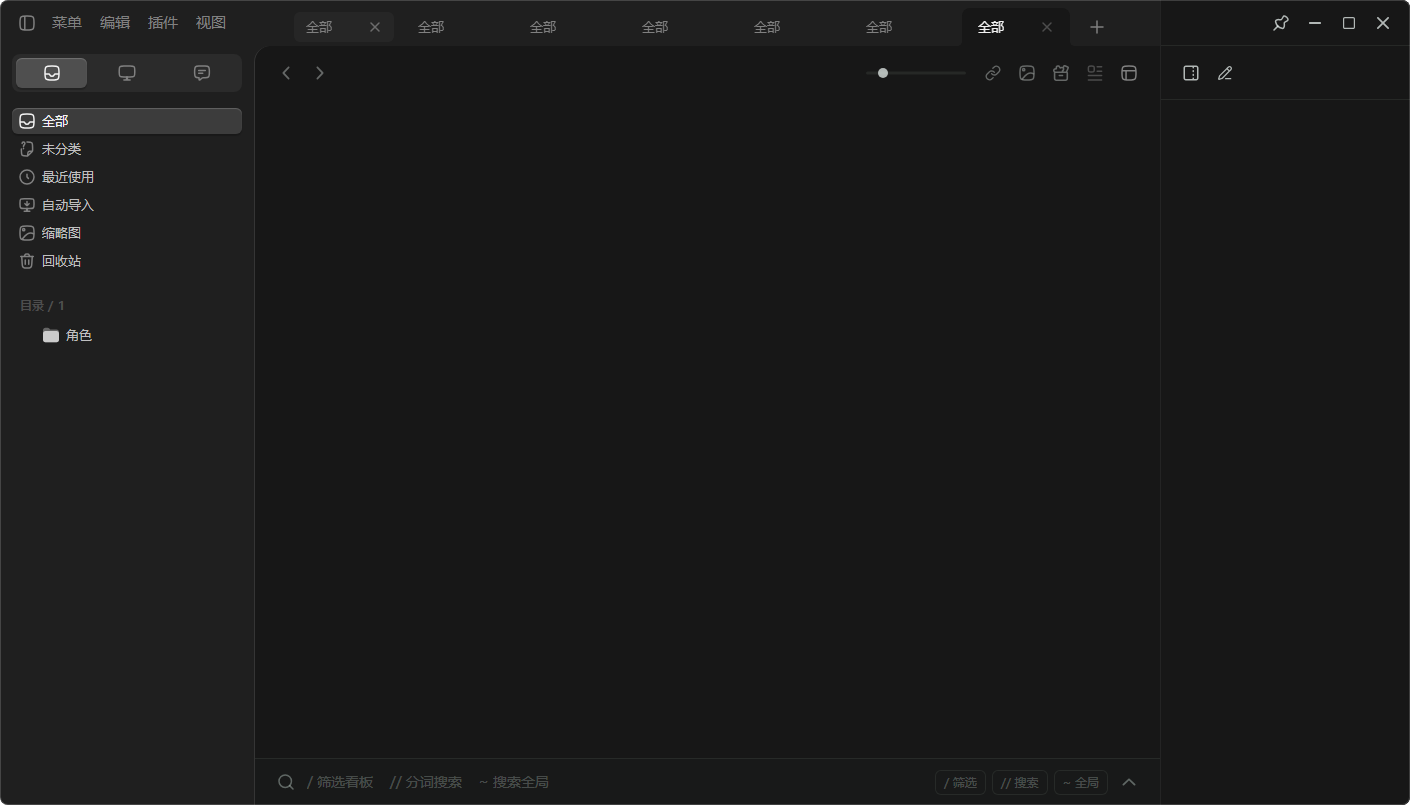
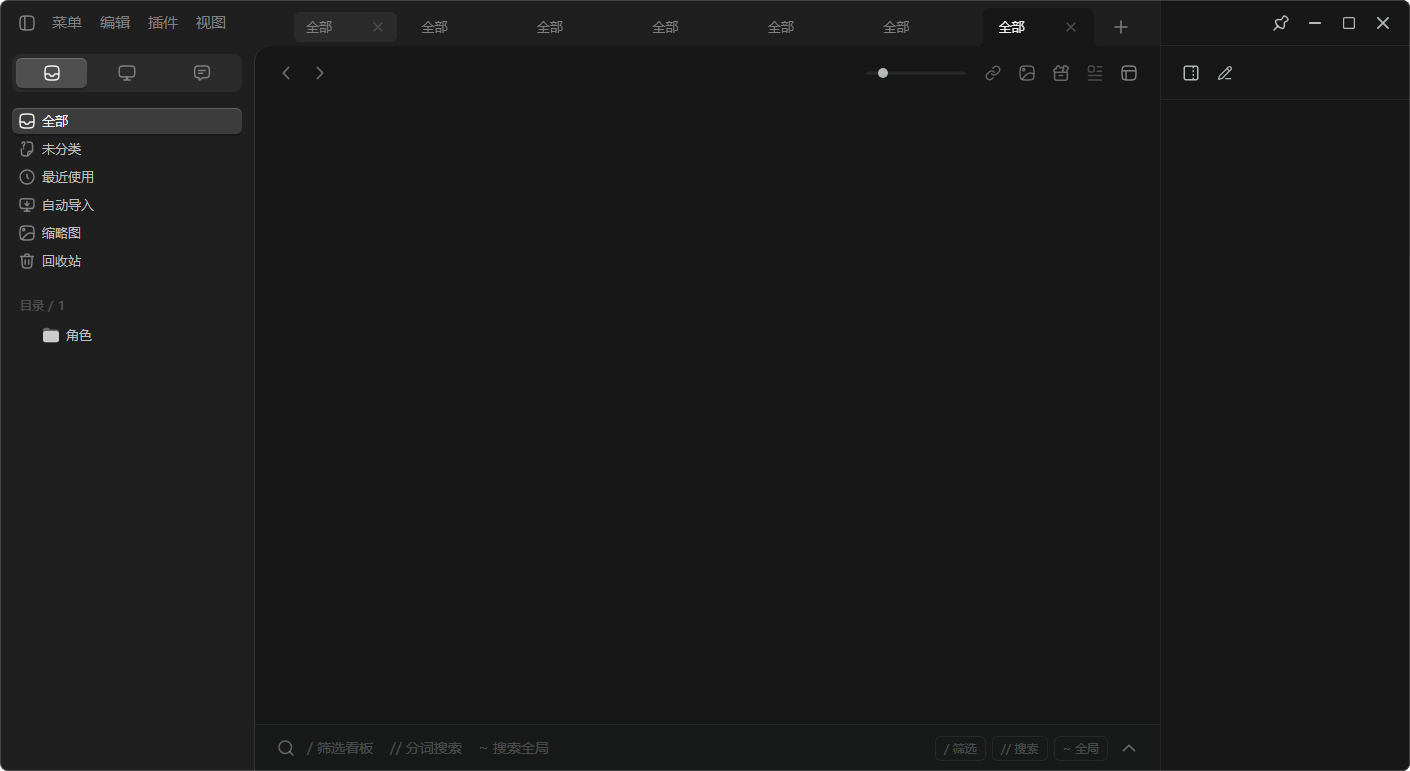
阶段七 7.1 十九轮六轮：+ 钮右端空白再修（双根因）——栏级 gap 对零宽容器生效（48 非稿值 24）改挂具体元素 margin / sidebarAnimating rAF 暂停卡 true 致 pad-win 恒 160，useSidebarAnim 两引擎加 watchdog 兜底（踩坑 062）；探针双跑全 16 项 PASS

diff --git a/src/lib/useSidebarAnim.ts b/src/lib/useSidebarAnim.ts
@@ -61,6 +61,7 @@ export const sidebarShowWidths = reactive({ left: 0, right: 0, archive: 0 });
 // 多档案标签页共享宽度可接受）——
 let archiveAnim: { el: HTMLElement; from: number; to: number; start: number } | null = null;
 let archiveRaf = 0;
+let archiveWatchdog: ReturnType<typeof setTimeout> | undefined;
 
 function archiveAnimFrame(now: number): void {
   const a = archiveAnim;
@@ -74,6 +75,7 @@ function archiveAnimFrame(now: number): void {
   } else {
     archiveAnim = null;
     useUiStore().sidebarAnimating = false;
+    clearTimeout(archiveWatchdog);
   }
 }
 
@@ -89,6 +91,16 @@ export function animateArchivePanel(el: HTMLElement, to: number): void {
   useUiStore().sidebarAnimating = true;
   cancelAnimationFrame(archiveRaf);
   archiveRaf = requestAnimationFrame(archiveAnimFrame);
+  // watchdog 同左右栏引擎（rAF 暂停时布尔恒卡 true 的兜底，2026-08-30）
+  clearTimeout(archiveWatchdog);
+  archiveWatchdog = setTimeout(() => {
+    if (!archiveAnim) return;
+    cancelAnimationFrame(archiveRaf);
+    sidebarShowWidths.archive = archiveAnim.to;
+    archiveAnim.el.style.width = `${archiveAnim.to}px`;
+    archiveAnim = null;
+    useUiStore().sidebarAnimating = false;
+  }, SIDEBAR_ANIM_MS + 200);
 }
 
 type SideKey = keyof typeof sidebarShowWidths;
@@ -109,6 +121,7 @@ export function useSidebarAnim(opts: {
   const tabs = useTabsStore();
   let sideAnims: SideAnim[] = [];
   let sideAnimRaf = 0;
+  let sideAnimWatchdog: ReturnType<typeof setTimeout> | undefined;
   let dockResizeObs: ResizeObserver | undefined;
 
   // 初始显示宽度（模板首帧即正确，不经过 0/全宽跳变）
@@ -130,6 +143,7 @@ export function useSidebarAnim(opts: {
     } else {
       sideAnims = [];
       ui.sidebarAnimating = false;
+      clearTimeout(sideAnimWatchdog);
     }
   }
 
@@ -147,6 +161,19 @@ export function useSidebarAnim(opts: {
     ui.sidebarAnimating = true;
     cancelAnimationFrame(sideAnimRaf);
     sideAnimRaf = requestAnimationFrame(sidebarAnimFrame);
+    // watchdog（2026-08-30：rAF 在窗口遮挡 / headless 节流下可暂停，布尔会恒卡 true——
+    // pad-win 让位不解除、标签栏右端恒 160 空白的实机 BUG 根因）：超时强制收官写终值
+    clearTimeout(sideAnimWatchdog);
+    sideAnimWatchdog = setTimeout(() => {
+      if (!sideAnims.length) return;
+      cancelAnimationFrame(sideAnimRaf);
+      for (const a of sideAnims) {
+        sidebarShowWidths[a.key] = a.to;
+        a.el.style.width = `${a.to}px`;
+      }
+      sideAnims = [];
+      ui.sidebarAnimating = false;
+    }, SIDEBAR_ANIM_MS + 200);
   }
 
   onMounted(() => {
@@ -176,6 +203,7 @@ export function useSidebarAnim(opts: {
   });
   onBeforeUnmount(() => {
     cancelAnimationFrame(sideAnimRaf);
+    clearTimeout(sideAnimWatchdog);
     dockResizeObs?.disconnect();
   });
 }

diff --git a/src/styles/dockview-theme.css b/src/styles/dockview-theme.css
@@ -32,11 +32,13 @@
   --dv-drag-over-border-color: var(--brand-border);
 }
 
-/* 标签栏条（稿值）：46 高 / padding 8·24·0·36 / 行 gap 12（标签页组 与 + 钮 的间距）；
-   栏底透明透窗口底（7.1 十七轮定），内容容器 g1 卡片顶边即分界 */
+/* 标签栏条（稿值）：46 高 / padding 8·24·0·36 / 底透明透窗口底（十七轮定），
+   内容容器 g1 卡片顶边即分界。
+   不用栏级 gap：void / right-actions 零宽时 gap 仍生效——+ 钮右端会凭空多 24
+   （双 gap 12，2026-08-30 实机「右端空白 48 > 稿值 24」根因）；间距改挂具体元素
+   （pre-actions 有钮时 margin-right 12、left-actions margin-left 12），有内容才占距 */
 .anikit-dock-theme .dv-tabs-and-actions-container {
   padding: var(--n-space-8) var(--n-space-24) 0 var(--n-space-36);
-  gap: var(--n-space-12);
   box-sizing: border-box;
 }
 
@@ -92,13 +94,16 @@
 }
 
 /* 标签页行首（prefix actions，左栏收起时的"展开侧边栏"按钮）：垂直居中；
-   与标签页的间距由栏行 gap 12 承担，无按钮时 display:none 不占位（gap 不给空盒留距） */
+   无按钮时 display:none 不占位；有钮时与首标签间距 12（margin——栏级 gap 已废，见栏容器注释） */
 .anikit-dock-theme .dv-pre-actions-container {
   display: flex;
   align-items: center;
 }
 .anikit-dock-theme .dv-pre-actions-container:not(:has(.icon-btn)) {
   display: none;
+}
+.anikit-dock-theme .dv-pre-actions-container:has(.icon-btn) {
+  margin-right: var(--n-space-12);
 }
 .anikit-dock-theme .dv-pre-actions-container .dv-vue-part,
 .anikit-dock-theme .dv-left-actions-container .dv-vue-part {
@@ -108,11 +113,13 @@
 }
 
 /* 左侧 actions（+ 按钮，tabs 后 = 挨着最后一个标签页；DOM 顺序 tabs → left-actions → void →
-   right-actions，天然位）：与标签组间距 = 栏行 gap 12（稿口径，不再自绘分割线）；
+   right-actions，天然位）：与标签组间距 12（margin-left——栏级 gap 已废，稿口径不变；
+   flex 间距按 scrollable 的 margin 盒缘起算，视觉恒 12）；
    钮 = IconButton 大档 30×30（稿值），色 亮/三级、hover 亮/二级 + 半透明-3 罩（贴预览展区口径） */
 .anikit-dock-theme .dv-left-actions-container {
   display: flex;
   align-items: center;
+  margin-left: var(--n-space-12);
   margin-right: auto; /* 钉在标签页后——后续元素（void/右端 actions/浮块）一律顶到最右 */
 }
 .anikit-dock-theme .dv-left-actions-container .icon-btn {

diff --git a/tools/cdp-tab-bar-probe.py b/tools/cdp-tab-bar-probe.py
@@ -165,8 +165,14 @@ async def main():
                   isinstance(bar, dict) and bar.get("h") == "46px"
                   and bar.get("p") == "8px,24px,0px,36px" and bar.get("bg") == "rgba(0, 0, 0, 0)",
                   json.dumps(bar))
-            check("T2 栏行 gap 12", isinstance(bar, dict) and bar.get("gap") == "12px",
-                  json.dumps(bar) if not isinstance(bar, dict) else bar.get("gap", ""))
+            sp = await ev(
+                "(() => { const bar = document.querySelector('" + BAR + "');"
+                " const la = bar.querySelector('.dv-left-actions-container');"
+                " return { gap: getComputedStyle(bar).columnGap,"
+                "        ml: getComputedStyle(la).marginLeft }; })()")
+            check("T2 栏无级 gap（零宽容器不吃距）+ + 钮 margin-left 12",
+                  isinstance(sp, dict) and sp.get("gap") in ("normal", "0px") and sp.get("ml") == "12px",
+                  json.dumps(sp))
 
             tabs_gap = await ev(
                 "getComputedStyle(document.querySelector('" + BAR + " .dv-tabs-container')).columnGap")
@@ -324,10 +330,10 @@ async def main():
                 " return { dropdown: !!dd, addRight: Math.round(ar.right),"
                 "        barRight: Math.round(br.right), raW: Math.round(rr.width),"
                 "        padR: parseInt(getComputedStyle(bar).paddingRight) }; })()")
-            check("T14 7 标签 shrink：无溢出下拉 + + 钮右缘距栏内容右缘 24",
+            check("T14 7 标签 shrink：无溢出下拉 + + 钮右缘距栏右缘 24（零宽容器不占距）",
                   isinstance(ov, dict) and ov.get("dropdown") is False
                   and ov.get("raW") == 0
-                  and abs(ov.get("barRight", 0) - ov.get("padR", 0) - ov.get("addRight", 0) - 24) <= 2,
+                  and abs(ov.get("barRight", 0) - ov.get("addRight", 0) - 24) <= 2,
                   json.dumps(ov))
 
             # T10 左栏收起时标签栏左 padding 36 → 12（十九轮二轮用户定）：

diff --git a/docs/05_项目进度/00_当前状态.md b/docs/05_项目进度/00_当前状态.md
@@ -1,6 +1,6 @@
 > 任务完成即更新本文件。开发中发现的遗漏细节记入 [[09_待办细节清单]]，按迭代消化，不在代码里就地糊（见 01_开发规范 第 4 条）。
 
-- **阶段七 7.1 十九轮 · 中间面板-标签栏轮——TabItem 接线 dockview + 栏排布贴稿（2026-08-30，feat/new-ui，标签宽度一问用户定案）**：**定案**：标签页宽 = **固定 180 + 过多平分收缩**（figma 实例 248/247 = 偶然宽，09 待办二轮条目 ④ 闭环）。**落地**：`TabLabel.vue` 重写为 **items/TabItem 的 dockview 业务适配器**（标题 viewKey 派生 / selected = panelApi 事件 / locked / 右键 tabMenus；点击激活归外壳不接 click）；`TabItem` 加 `locked` 态（pin 18 替代关闭钮 + tip，稿未画沿用 1.2 现口径）；`dockview-theme.css` 标签栏段重写——栏 46 / padding 8·24·0·36 / 行 gap 12、标签列表 gap 4、外壳 .dv-tab 180×38 全透明无 padding 边框（视觉全归 TabItem 自绘：选中 g1 + 圆角 8 8 0 0 + 两侧 4px 反弧、未选中透明三级字、hover 4px 内缩 6px 圆角 a3 罩）、四档底色变量全 transparent、去旧 218 宽/竖分割线/C4 选中底、+ 钮亮/三级 hover 二级+a3 罩、pre-actions 空时 display:none。**坑**：截图目验发现 4px 灰带横贯标签组底部截断选中无缝——先误判 tab-group-underline，elementFromPoint 定位 = dockview 自绘 `.dv-scrollbar`（flex trailing gap 计入 scrollWidth 恒假溢出 4px，058 横向同款），恒 display:none（踩坑 059）+ tab-group-underline 防御关闭。**探针**：新立 `cdp-tab-bar-probe.py` T1-T9 全 PASS + r19 截图目验贴稿；window-shell W2 修正过期断言（mica 描边交 DWM border 0）ALL PASS；sidebar-left ALL PASS；bugfix / sequence-pack tab 选择器迁新结构（.dv-tab .tab / .tab.selected .label）。**过期探针定案（非本轮回归）**：bugfix 余断言 / sequence-pack（桩缺 list_relations → DetailPanel null 崩）/ sidebar-anim（十八轮二轮 400ms 引擎后未复跑）= 阶段七未适配旧探针，记 09 待办随对应面板轮适配。vue-tsc 零错误；预览页 TabItem 展区补锁定态。速查表 §21 新立。**同日二轮实机三条修订（用户反馈）**：① **标签栏底废除透主窗口云母**——根源 = `.dock-host` 旧 c1 实底挡住（十七轮只清了 dockview 层、宿主层漏清），删底后标签栏/group 区透窗口云母或实色-1；② **左栏收起时栏左 padding 36→12**（用户定，收起态行首展开钮距左缘 36 太远；DockHost 挂 `left-collapsed` 切换）；③ **内容区底色 = 通用/一级**——`.content-area` 旧 c1 删掉（盖住十七轮 g1 卡片），统一透 `.dv-content-container` g1，选中标签与内容区融合可辨（全屏预览蒙层 c1 保留特例）。探针补 T10/T10b（收起 12/展开回 36）+ T11（底色链）全 12 项 PASS；window-shell 复跑 ALL PASS；vue-tsc 绿。**同日三轮再修（用户实机 BUG：单标签双肩全无 / 首尾标签缺外肩）**：根因 = `.dv-scrollable`（overflow hidden 包装层）与 `.dv-tabs-container` 裁至内容盒，反弧外肩伸出即被裁（中间标签落 gap 内故正常；computed 在 ≠ 可见）——两层各 `padding 0 4px + margin 0 -4px` 让出绘制空间（负 margin 抵消，tab 位置不变）；探针补 T12a/T12b 像素断言（截图读贴角 1px = 纯 g1）全 14 项 PASS；踩坑 060 新立。**同日四轮（用户实机两条）**：① pin 图标接线——pin-on / pin-off 转 currentColor（原 #BFBFBF 二级烘焙），window-pin-on/off 旧名引用清零（TabItem 锁定 pin / tabMenus / 置顶菜单项 / 窗口置顶钮 6 处全迁新名，命名对照六批 2 个）；② 展开侧边栏按钮出现/消失 = **透明度过渡 150ms 缓入缓出**（用户定；SidebarExpandButton 包 Transition，pre-actions `:has` 显隐与离场留存兼容）。探针复跑全 14 项 PASS。**同日五轮（用户实机「+ 钮右端空白过多」）**：根因 = dockview 7 标签溢出下拉（OverflowObserver 按 scrollW > clientW 判定——DPR 缩放下 flex shrink 亚像素累积恒假溢出，`.dv-tabs-overflow-dropdown-root` 渲染进 right-actions 占 ~60px；桩环境 DPR 1 不复现）——`:disable-tabs-overflow-list` 原生选项禁用（shrink 平分无下车场景）；探针补 T13（pad-win 生命周期：右栏收起 160 / 展开回 24，断言轮询化——固定 sleep 在拥挤布局 flake 过一次）+ T14（7 标签 shrink：无下拉 + + 钮右缘距内容右缘 24 稿值），连续两跑全 16 项 PASS；踩坑 061 新立（dockview titlebar 附加件清单：059 滚动条 / 060 裁层 / 061 溢出下拉）。同轮补：锁定 pin 换 **pin-small 14**（用户供小图，与关闭钮同档；转 currentColor + 命名对照登记）。**下一步：中间面板轮续——多功能悬浮栏 / 内容容器（工具栏 / 列表容器 / 预览族）按稿推进；过期探针三枚随对应面板轮适配**。
+- **阶段七 7.1 十九轮 · 中间面板-标签栏轮——TabItem 接线 dockview + 栏排布贴稿（2026-08-30，feat/new-ui，标签宽度一问用户定案）**：**定案**：标签页宽 = **固定 180 + 过多平分收缩**（figma 实例 248/247 = 偶然宽，09 待办二轮条目 ④ 闭环）。**落地**：`TabLabel.vue` 重写为 **items/TabItem 的 dockview 业务适配器**（标题 viewKey 派生 / selected = panelApi 事件 / locked / 右键 tabMenus；点击激活归外壳不接 click）；`TabItem` 加 `locked` 态（pin 18 替代关闭钮 + tip，稿未画沿用 1.2 现口径）；`dockview-theme.css` 标签栏段重写——栏 46 / padding 8·24·0·36 / 行 gap 12、标签列表 gap 4、外壳 .dv-tab 180×38 全透明无 padding 边框（视觉全归 TabItem 自绘：选中 g1 + 圆角 8 8 0 0 + 两侧 4px 反弧、未选中透明三级字、hover 4px 内缩 6px 圆角 a3 罩）、四档底色变量全 transparent、去旧 218 宽/竖分割线/C4 选中底、+ 钮亮/三级 hover 二级+a3 罩、pre-actions 空时 display:none。**坑**：截图目验发现 4px 灰带横贯标签组底部截断选中无缝——先误判 tab-group-underline，elementFromPoint 定位 = dockview 自绘 `.dv-scrollbar`（flex trailing gap 计入 scrollWidth 恒假溢出 4px，058 横向同款），恒 display:none（踩坑 059）+ tab-group-underline 防御关闭。**探针**：新立 `cdp-tab-bar-probe.py` T1-T9 全 PASS + r19 截图目验贴稿；window-shell W2 修正过期断言（mica 描边交 DWM border 0）ALL PASS；sidebar-left ALL PASS；bugfix / sequence-pack tab 选择器迁新结构（.dv-tab .tab / .tab.selected .label）。**过期探针定案（非本轮回归）**：bugfix 余断言 / sequence-pack（桩缺 list_relations → DetailPanel null 崩）/ sidebar-anim（十八轮二轮 400ms 引擎后未复跑）= 阶段七未适配旧探针，记 09 待办随对应面板轮适配。vue-tsc 零错误；预览页 TabItem 展区补锁定态。速查表 §21 新立。**同日二轮实机三条修订（用户反馈）**：① **标签栏底废除透主窗口云母**——根源 = `.dock-host` 旧 c1 实底挡住（十七轮只清了 dockview 层、宿主层漏清），删底后标签栏/group 区透窗口云母或实色-1；② **左栏收起时栏左 padding 36→12**（用户定，收起态行首展开钮距左缘 36 太远；DockHost 挂 `left-collapsed` 切换）；③ **内容区底色 = 通用/一级**——`.content-area` 旧 c1 删掉（盖住十七轮 g1 卡片），统一透 `.dv-content-container` g1，选中标签与内容区融合可辨（全屏预览蒙层 c1 保留特例）。探针补 T10/T10b（收起 12/展开回 36）+ T11（底色链）全 12 项 PASS；window-shell 复跑 ALL PASS；vue-tsc 绿。**同日三轮再修（用户实机 BUG：单标签双肩全无 / 首尾标签缺外肩）**：根因 = `.dv-scrollable`（overflow hidden 包装层）与 `.dv-tabs-container` 裁至内容盒，反弧外肩伸出即被裁（中间标签落 gap 内故正常；computed 在 ≠ 可见）——两层各 `padding 0 4px + margin 0 -4px` 让出绘制空间（负 margin 抵消，tab 位置不变）；探针补 T12a/T12b 像素断言（截图读贴角 1px = 纯 g1）全 14 项 PASS；踩坑 060 新立。**同日四轮（用户实机两条）**：① pin 图标接线——pin-on / pin-off 转 currentColor（原 #BFBFBF 二级烘焙），window-pin-on/off 旧名引用清零（TabItem 锁定 pin / tabMenus / 置顶菜单项 / 窗口置顶钮 6 处全迁新名，命名对照六批 2 个）；② 展开侧边栏按钮出现/消失 = **透明度过渡 150ms 缓入缓出**（用户定；SidebarExpandButton 包 Transition，pre-actions `:has` 显隐与离场留存兼容）。探针复跑全 14 项 PASS。**同日五轮（用户实机「+ 钮右端空白过多」）**：根因 = dockview 7 标签溢出下拉（OverflowObserver 按 scrollW > clientW 判定——DPR 缩放下 flex shrink 亚像素累积恒假溢出，`.dv-tabs-overflow-dropdown-root` 渲染进 right-actions 占 ~60px；桩环境 DPR 1 不复现）——`:disable-tabs-overflow-list` 原生选项禁用（shrink 平分无下车场景）；探针补 T13（pad-win 生命周期：右栏收起 160 / 展开回 24，断言轮询化——固定 sleep 在拥挤布局 flake 过一次）+ T14（7 标签 shrink：无下拉 + + 钮右缘距内容右缘 24 稿值），连续两跑全 16 项 PASS；踩坑 061 新立（dockview titlebar 附加件清单：059 滚动条 / 060 裁层 / 061 溢出下拉）。同轮补：锁定 pin 换 **pin-small 14**（用户供小图，与关闭钮同档；转 currentColor + 命名对照登记）。**同日六轮（用户复验「右端仍 > 左 36」）双根因**：A. 栏级 gap 对零宽容器（void/right-actions）仍生效——+ 钮右端 = gap12×2+pad24 = 48 非稿值 24 → 栏 gap 废除改挂具体元素 margin（有内容才占距）；B. **sidebarAnimating 卡 true 致 pad-win 恒 160**（探针 T13c 间歇 FAIL 实证：rAF 遮挡/节流暂停，动画完成才复位的假设不成立）→ useSidebarAnim 两引擎加 watchdog（超时强制写终值 + 复位，踩坑 062）。探针双跑全 16 项 PASS；速查表 §21 栏容器口径改写。**下一步：中间面板轮续——多功能悬浮栏 / 内容容器（工具栏 / 列表容器 / 预览族）按稿推进；过期探针三枚随对应面板轮适配**。
 
 - **阶段七 7.1 十八轮 · 左侧边栏轮——菜单栏 + 分段控制器 + 树容器贴稿重构（2026-08-30，feat/new-ui，三问用户定案）**：**范围定案**：① 菜单栏四文字钮（菜单/编辑/插件/视图）= **点亮不接业务**（汉堡 14 稿 / 新增 07 稿 + Ctrl+N / 区块管理 30 稿 / 切库 08 稿入口随旧 rail 结构撤下，spec 保留在 lib 待接线轮）；② 分段控制器三段可切，工作空间 / AI = 空态「功能正在开发中」居中（正文档 + 亮色/四级）；③ 树 item 业务态视觉定案（稿未画）——多选 = 半透明-2 底 + 1.5px 二级描边、拖拽插入线/并入 = 品牌常态描边 + 品牌半透明填充、命名 = 品牌常态描边、剪切/拖拽源 = 半透明既有档、缩进线 = 亮色/半透明-3（节点设色后 = 该色-1 的 6% 档 color-mix）。**落地**：`SidebarLeft` 重写（254 宽 column：菜单栏 46 + 分段控制器 54 + 树容器 flex 1 + ScrollThumb；ui.leftWidth 304→254 + loadSettings 仅迁旧默认值；picker 下分段切换禁用）；`LibraryView` / `FolderTree` 迁移 **TreeRowItem**（宽改 100% 随父容器 + 业务态 props：domainSelected/dropZone/naming/depth/dimmed/cut + 数量双口径千分位 + expandable 占位 + 双击展开 e.detail 判定）与 **SectionTitle**（block 型；折叠点击 suppressClick 守卫在调用方——区块拖拽让位后误折叠旧坑）；区块间距 24→8 / items gap 4→2（稿值）。**tint 过渡**：存量 Folder.color 旧九色名经新 `toNewTint()`（lib/customColors）映射新九色（orange→yellow / blue-violet→purple 就近），数据迁移归 09 待办。**探针**：新立 `cdp-sidebar-left-probe.py` 全项 18 PASS + r18 截图目验贴稿；window-shell W4 同步新类名（menu-bar/seg-wrap/side-body）+ W1b 修正过期断言（fx-mica 底 = 全透明，十七轮同日定稿——探针漏同步）；sidebar-anim 适配新结构（.exp/.lead、254 断言、移除 libSwitch 对齐断言——library-switch 行随稿删除，顶行 54 对齐定案不再含左栏）+ 桩补 list_relations（SectionRelations 迭代 null 崩 = 桩清单缺口坑）后全 22 项 PASS。vue-tsc / cargo test 403 绿。速查表 §20 新立 / 09 待办四笔 / 预览页 TreeRowItem 展区补业务态陈列。**同日二轮实机复验修订（用户十条反馈，第 7 条搁置）**：① 左栏最小宽 246（SplitBar 左 246 / 右 200 + 存量夹紧，再窄菜单栏四钮被裁）；② 树节点 / 区块展开收起 = 150ms 缓入缓出（新 lib/expandAnim.ts JS 高度补间，v-if 挂载语义不变）；③ 侧栏收展 180→**400ms** + token 缓入缓出（easeInOut 换 cubic-bezier(.32,.08,.1,1) JS 求值，档案面板同引擎）；④ 多选（含右键选择）去 1.5px 二级框只留半透明-2 底色；⑤ **1.5px 描边全废改 2px**（屏幕缩放分数像素问题；本组件与区块头范围）；⑥ ::selection 改新品牌色-常态 + 亮色/一级字；⑧ 分段切换 = 旧内容左移出 / 新内容右移入 300ms（与滑块同步）；⑨ 缩进线 半透明-3→**半透明-2**（实机太淡）；⑩ 档案圆点 tint 变色后用**颜色-2 暗档**；**同日三轮再修**（用户实机）：tint 缩进线 -1 亮档 14% 与常态灰白反差大看不清 → 改**颜色-2 暗档实色**；档案圆点 tint+选中 = **颜色-1 亮档**（探针 S9d 补断言 rgb(37,80,118) 双验）；**四轮**：常态缩进线 半透明-2 → **自定义/常态-2 实色**；**五轮定稿**：实色偏抢 → 统一**颜色-2 的 50% 透明档**——常态 = 新 token `--n-custom-2-50`（Token.md 1.6 已录）、变色 = 该色-2 的 50% color-mix 派生（探针 S9b/S9d 断言同步；color-mix 计算值序列化为 color(srgb) 非 rgba——断言双格式接受）；**六轮**：缩进线 z 序修正——删 z-index 1（旧体系 item 实色底防盖线遗留），线沉在选中/悬停罩层之下透过半透明罩自然变暗（用户实机定，S9b 补 z 序断言）；**七轮**：分段切换 X 出入位移 24→**48px**，时序定稿 = **退场 150ms 缓出 + 入场 250ms 缓入 delay 100ms**（总 350ms 全 token 档；前身各 300ms + delay 200ms 退场太慢，用户实机四调）；⑦ 卡片↔树联动分场景表达（去框后联动弱）涉及多选改造**用户定搁置**（09 待办⑤）。探针 sidebar-left S9b 断言同步 0.14 复跑全 18 PASS；sidebar-anim 复跑 23 项 PASS 无回归；vue-tsc 绿。**下一步：用户实机复验二轮修订（收展 400ms 手感 / 树展开 150ms / 分段切换 X 出入 / 缩进线可读性），菜单栏接业务轮与中间面板轮按排期**。
 

diff --git a/docs/02_样式与布局/03_新面板口径速查.md b/docs/02_样式与布局/03_新面板口径速查.md
@@ -233,7 +233,7 @@
 ## 21. 阶段七中间面板-标签栏轮（7.1 十九轮，2026-08-30；稿 = 布局/主窗口/中间面板-标签栏 + 组件/item/标签页 item）
 
 - **分工**：标签页视觉全归 `items/TabItem.vue`（scoped 自包含：选中 g1 底 + 圆角 8 8 0 0 + 底部两侧 4px 反弧 radial-gradient、未选中透明 + 三级字、hover 未选中 = 四周 4px 内缩 6px 圆角 半透明-3 罩、关闭钮 close-small 14 常态隐/hover·选中显 + 四级→hover 二级）；dockview 外壳层（`styles/dockview-theme.css`）只管尺寸与栏排布——**外壳 .dv-tab 全透明无 padding 无边框，hover/选中底色一律不画**（防与 TabItem 双层罩）。
-- **栏容器**：46 高 / padding 8·24·0·36 / 行 gap 12（标签页组与 + 钮的间距）/ 底透明透窗口底（十七轮定）。**左栏收起时左 padding 36 → 12**（十九轮二轮用户定：收起态行首展开钮距窗口左缘 36 太远；DockHost 挂 `left-collapsed` 类切换，展开回稿值 36）。标签列表 gap 4（= 反弧肩径，hover 罩右下间距才能统一 4）。**反弧肩膀外溢绘制空间**：`.dv-scrollable` 与 `.dv-tabs-container` 两层各 `padding: 0 4px + margin: 0 -4px`——overflow 裁内容盒会裁掉首尾标签的外侧肩膀（踩坑 060），负 margin 抵消后 tab 视觉位置不变。标签页 180 固定宽 + 过多平分收缩（flex 0 1 auto + min-width 0，覆盖 dockview 默认 shrink 0 溢出滚动；**2026-08-30 用户定**——figma 实例 248/247 为偶然宽，09 待办二轮条目 ④ 闭环）。
+- **栏容器**：46 高 / padding 8·24·0·36 / 底透明透窗口底（十七轮定）。**栏级不用 gap**——void / right-actions 零宽时 gap 仍生效，+ 钮右端凭空多 24（十九轮六轮实机「右端 48 > 稿值 24」根因）；间距改挂具体元素：pre-actions 有钮时 margin-right 12（展开钮↔首标签）、left-actions margin-left 12（最后标签↔+ 钮；flex 间距按 scrollable margin 盒缘起算，视觉恒 12），**有内容才占距**。**左栏收起时左 padding 36 → 12**（十九轮二轮用户定：收起态行首展开钮距窗口左缘 36 太远；DockHost 挂 `left-collapsed` 类切换，展开回稿值 36）。标签列表 gap 4（= 反弧肩径，hover 罩右下间距才能统一 4）。**反弧肩膀外溢绘制空间**：`.dv-scrollable` 与 `.dv-tabs-container` 两层各 `padding: 0 4px + margin: 0 -4px`——overflow 裁内容盒会裁掉首尾标签的外侧肩膀（踩坑 060），负 margin 抵消后 tab 视觉位置不变。标签页 180 固定宽 + 过多平分收缩（flex 0 1 auto + min-width 0，覆盖 dockview 默认 shrink 0 溢出滚动；**2026-08-30 用户定**——figma 实例 248/247 为偶然宽，09 待办二轮条目 ④ 闭环）。
 - **中间面板底色链（十九轮二轮用户实机三条定案）**：① **`.dock-host` 无底色**——标签栏 / group 区透窗口云母或实色-1 底（旧 c1 实底挡住云母，十七轮「三段底色」只清了 dockview 层、宿主层漏清）；② **`.content-area` 无底色**——内容区统一透 `.dv-content-container` 的 通用/一级 g1 卡片，选中标签（同 g1）与内容区融合可辨（旧 c1 盖住卡片底色已废；`.preview-root.fullscreen` 全屏蒙层 c1 保留 = 独立特例）；③ 右栏 g1 + 左缘 1px g3 通栏（十七轮口径不变）。
 - **业务适配器 = `TabLabel.vue`**（dockview tabComponent）：标题按 viewKey 实时派生、selected 走 panelApi.isActive + onDidActiveChange、右键 = lib/tabMenus；点击激活/拖拽换位归 dockview 外壳，适配器不接 click。锁定页 = TabItem `locked`（pin-small 图标 14 替代关闭钮 + tip「已锁定」——与关闭钮同 14 档，2026-08-30 用户供小图；稿未画，色档亮/二级沿用 1.2 现口径）。**pin 图标 = 新库 pin-on / pin-off / pin-small**（十九轮四轮接线 + 转 currentColor，window-pin-on/off 旧名引用清零：tabMenus / 置顶菜单项 / 窗口置顶钮 6 处；命名对照六批）。
 - **添加钮**：left-header-actions（TabAddButton，IconButton 大档 30×30 贴稿）；色档亮/三级、hover 亮/二级 + 半透明-3 罩（theme css 覆盖，shorthand background 压 IconButton 的 gradient 罩）。prefix actions（SidebarExpandButton 展开钮）空时 `display:none`（`:not(:has(.icon-btn))`）——栏 gap 不给空盒留距；**展开钮出现/消失 = 透明度过渡 150ms 缓入缓出**（十九轮四轮用户定；SidebarExpandButton 包 Transition，离场期间 DOM 留存与 `:has` 显隐兼容）。

diff --git a/docs/06_踩坑记录.md b/docs/06_踩坑记录.md
@@ -433,3 +433,10 @@
 - **根因：** dockview 7 的 OverflowObserver 以 `hasScrollX = scrollWidth > clientWidth` 判定标签溢出；**DPR 125%/150% 缩放下 flex shrink 的亚像素取整累积**（7 枚 tab 各自四舍五入）可使 scrollWidth 恒超 clientWidth 1-2px——下拉恒显。本项目标签页 = shrink 平分策略（180 固定 basis + flex 0 1 auto），标签永不下车，下拉控件本就无意义。
 - **解法：** `DockviewVue` 传 `:disable-tabs-overflow-list="true"`（dockview 原生选项，showTabsOverflowControl 关掉，observer 不挂）。探针补 T14（7 标签强 shrink 场景：无下拉元素 + right-actions 宽 0 + shrink 撑满时 + 钮右缘距栏内容右缘 = padding-right 24 稿值）。
 - **预防：** dockview 升级/改版后先列其**标签栏附加件清单**（059 自绘滚动条、060 scrollable 裁层、061 溢出下拉——dockview 7 的 titlebar 远不止 tabs 一行）；实机 DPR 缩放环境的 1-2px 级布局问题 headless（DPR 1）探针复现不了，实机报告优先往「亚像素 + 溢出判定」方向想。
+
+## 062 rAF 引擎的「进行中」布尔无兜底——窗口遮挡/headless 节流下动画链暂停，状态恒卡 true
+
+- **现象：** 2026-08-30（阶段七 7.1 十九轮六轮，用户实机 + 探针 flake 双实证）。`sidebarAnimating` 一旦置 true 只能靠 rAF 回调链跑到终点才清——headless 探针里 T13c 间歇 FAIL（pad-win 恒 160），用户实机同类：窗口遮挡/失焦时 rAF 暂停，若回调链断掉（或暂停长于预期），布尔恒 true，pad-win 让位永不解除（标签栏右端恒 160 空白）。
+- **根因：** rAF 不是可靠定时器——页面隐藏/遮挡时浏览器可完全暂停派发；「动画完成才复位状态」的隐式假设在真实桌面环境不成立。
+- **解法：** `useSidebarAnim` 两引擎（左右栏 + 档案面板）各加 **watchdog**：置位时同步 `setTimeout(动画时长 + 200)`，超时若动画仍在册 = 链断，强制写终值（showWidths + el.style.width）+ 清状态 + cancelAnimationFrame；正常完成路径 clearTimeout。探针侧同类断言一律**轮询等待**（deadline + 间隔复查），不用固定 sleep（动画 + RO 灌宽时序不定）。
+- **预防：** 凡「rAF 驱动 + 布尔进行中标志」的结构必须配 watchdog 兜底；评审动画引擎代码时把「隐藏/遮挡时这个布尔会怎样」列入检查项。关联：054/056（headless 环境时序与实机差异同族）。

diff --git a/docs/04_开发日志/2026-08-30.md b/docs/04_开发日志/2026-08-30.md
@@ -148,3 +148,9 @@
 ## 十九轮五轮补 · 标签锁定 pin 换 pin-small（用户供 14px 小图入库）
 
 - TabItem 锁定态 pin-on 18 → **pin-small 14**（与关闭钮同 14 档对齐；用户随「+ 钮右端空白」反馈一并供的小 pin 图）；pin-small 转 currentColor（原 #BFBFBF 二级烘焙），命名对照登记「置顶-小」+ 六批记录 2→3 个。tab-bar 探针复跑全 16 项 PASS；vue-tsc 绿。
+
+## 十九轮六轮 · 右端空白再修（用户复验「还是一样，右 > 左 36」）——双根因
+
+- **根因 A（栏级 gap 对零宽容器生效）**：栏容器 gap 12 时，void / right-actions 零宽仍各吃一个 gap——shrink 撑满态 + 钮右缘到栏右缘 = gap12+gap12+padding24 = **48**（稿值 24）。修法：栏级 gap 废除，间距改挂具体元素（pre-actions 有钮 margin-right 12 / left-actions margin-left 12）——有内容才占距。探针 T2 改断言（栏无 gap + margin-left 12）、T14 右缘断言改距栏右缘 24。
+- **根因 B（sidebarAnimating 卡 true，pad-win 恒 160）**：探针 T13c 间歇 FAIL 实证——rAF 在窗口遮挡/headless 节流下暂停，「动画完成才复位布尔」假设不成立，布尔恒卡 true → pad-win 让位永不解除（用户实机同族）。修法：useSidebarAnim 两引擎（左右栏 + 档案面板）加 **watchdog**（置位时 setTimeout 动画时长+200，超时链断则强制写终值 + 清状态；正常完成 clearTimeout）——踩坑 062 新立。
+- 探针双跑全 16 项 PASS（T13c 稳定）；vue-tsc 绿；速查表 §21 栏容器口径改写（栏级 gap 废除）。
